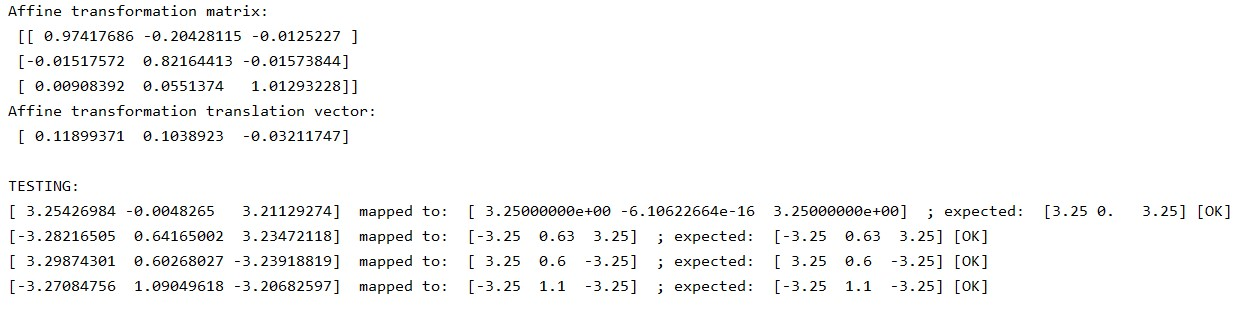
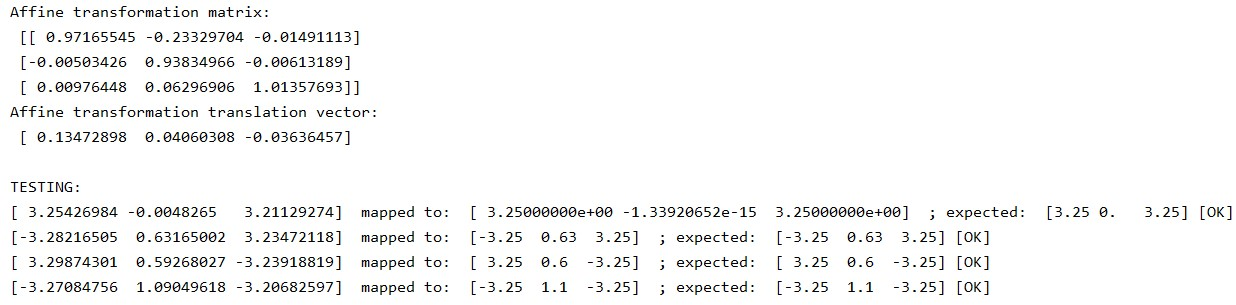
update wiki

diff --git a/script.py b/script.py
@@ -4,7 +4,7 @@ import xml.etree.ElementTree as ET
 import func
 
 # чтение файла настроек
-with open("data/settings_2_3D.json", 'r') as settings:
+with open("data/settings_1_3D.json", 'r') as settings:
     settings_param = settings.read()
 
 # преобразуем json строку в объект
